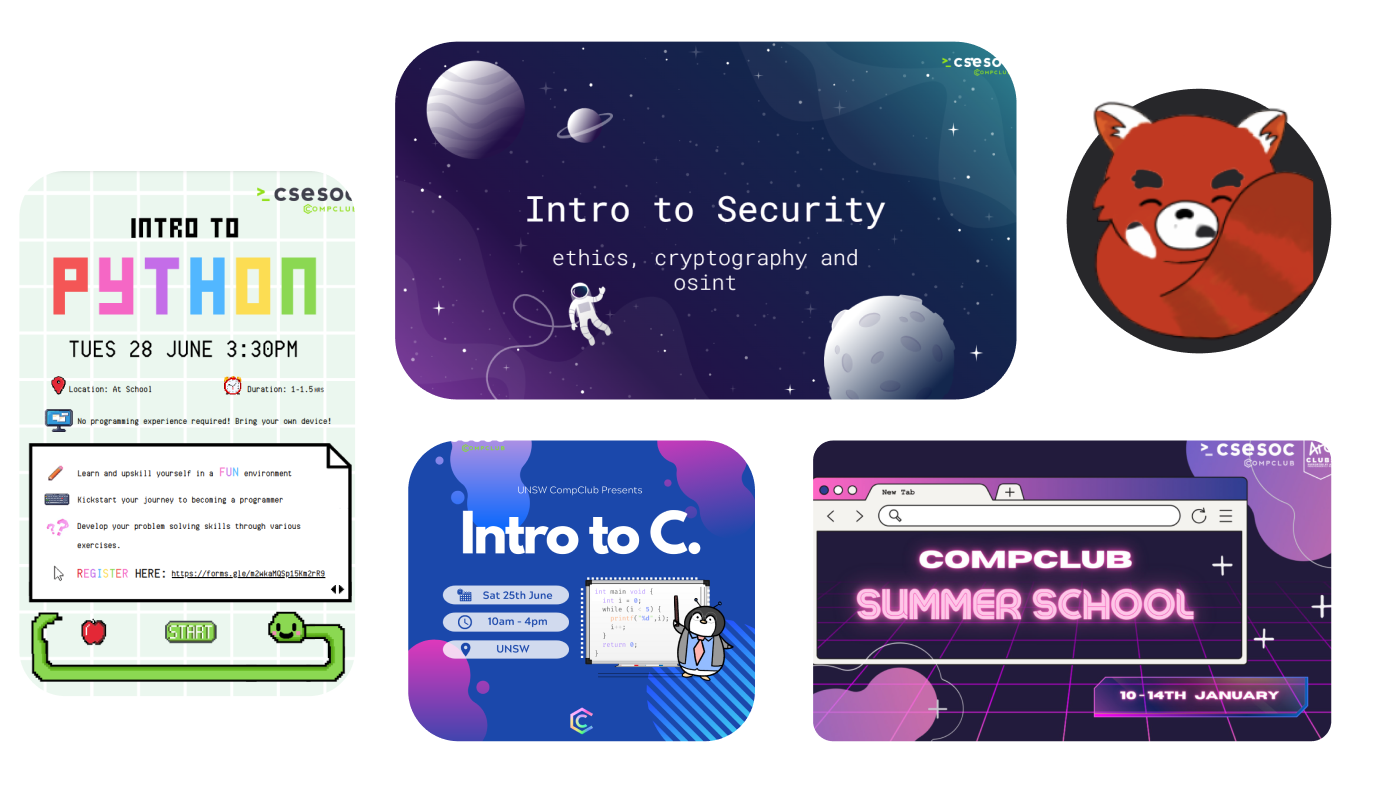
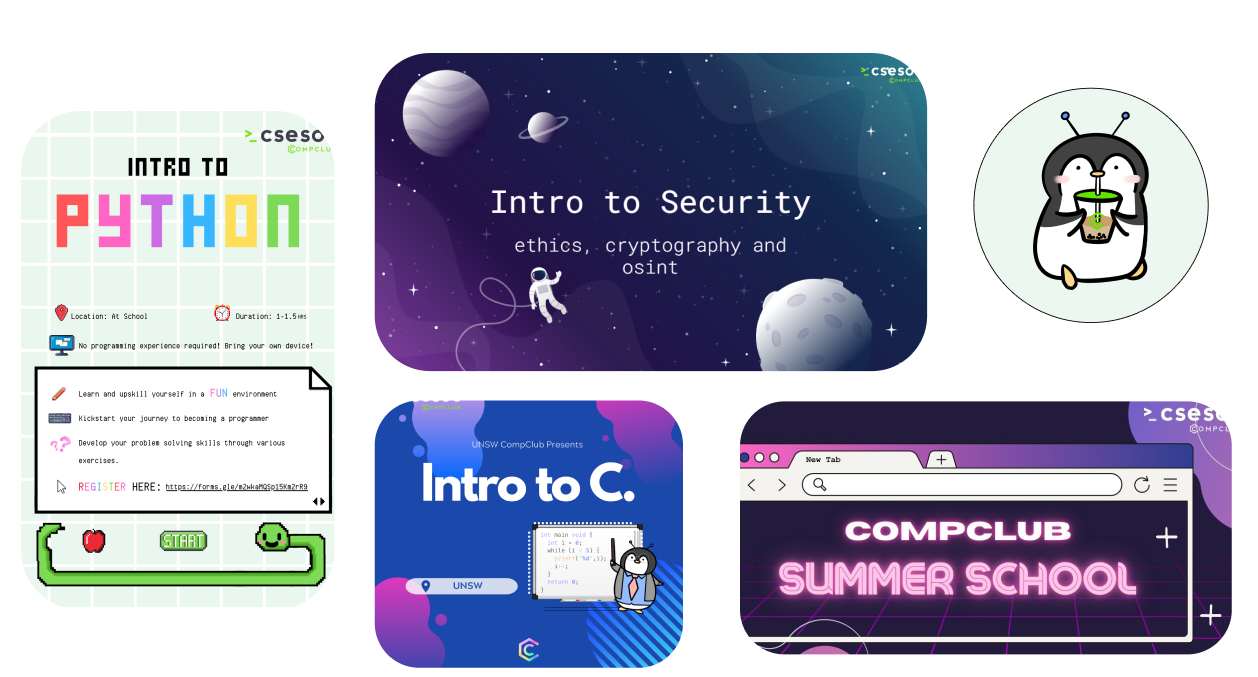
adjusted collage and minor edits

diff --git a/src/pages/Events.jsx b/src/pages/Events.jsx
@@ -32,7 +32,7 @@ export default function Events() {
         </div>
       </div>
       <div>
-        <h3 class='mt-6 text-3xl font-sans font-bold text-center'>Workshops</h3>
+        <h3 class='mt-10 text-3xl font-sans font-bold text-center'>Workshops</h3>
         <div class='mt-4 mx-12 text-center'>
           <p>
             Compclub runs a wide varierty of workshops such as VR, Gaming and 3D
@@ -41,10 +41,10 @@ export default function Events() {
             well as run our own public workshops hosted at UNSW.
           </p>
         </div>
-        <div class='mt-4 mx-12'>
+        <div class='mt-4 flex items-center justify-center'>
           <img src={collage} alt='' />
         </div>
-        <h3 class='mt-6 text-3xl font-sans font-bold text-center'>Some of what we teach</h3>
+        <h3 class='mt-10 text-3xl font-sans font-bold text-center'>Some of what we teach</h3>
         <div style={{
         display: 'flex',
         flexDirection: 'row',
